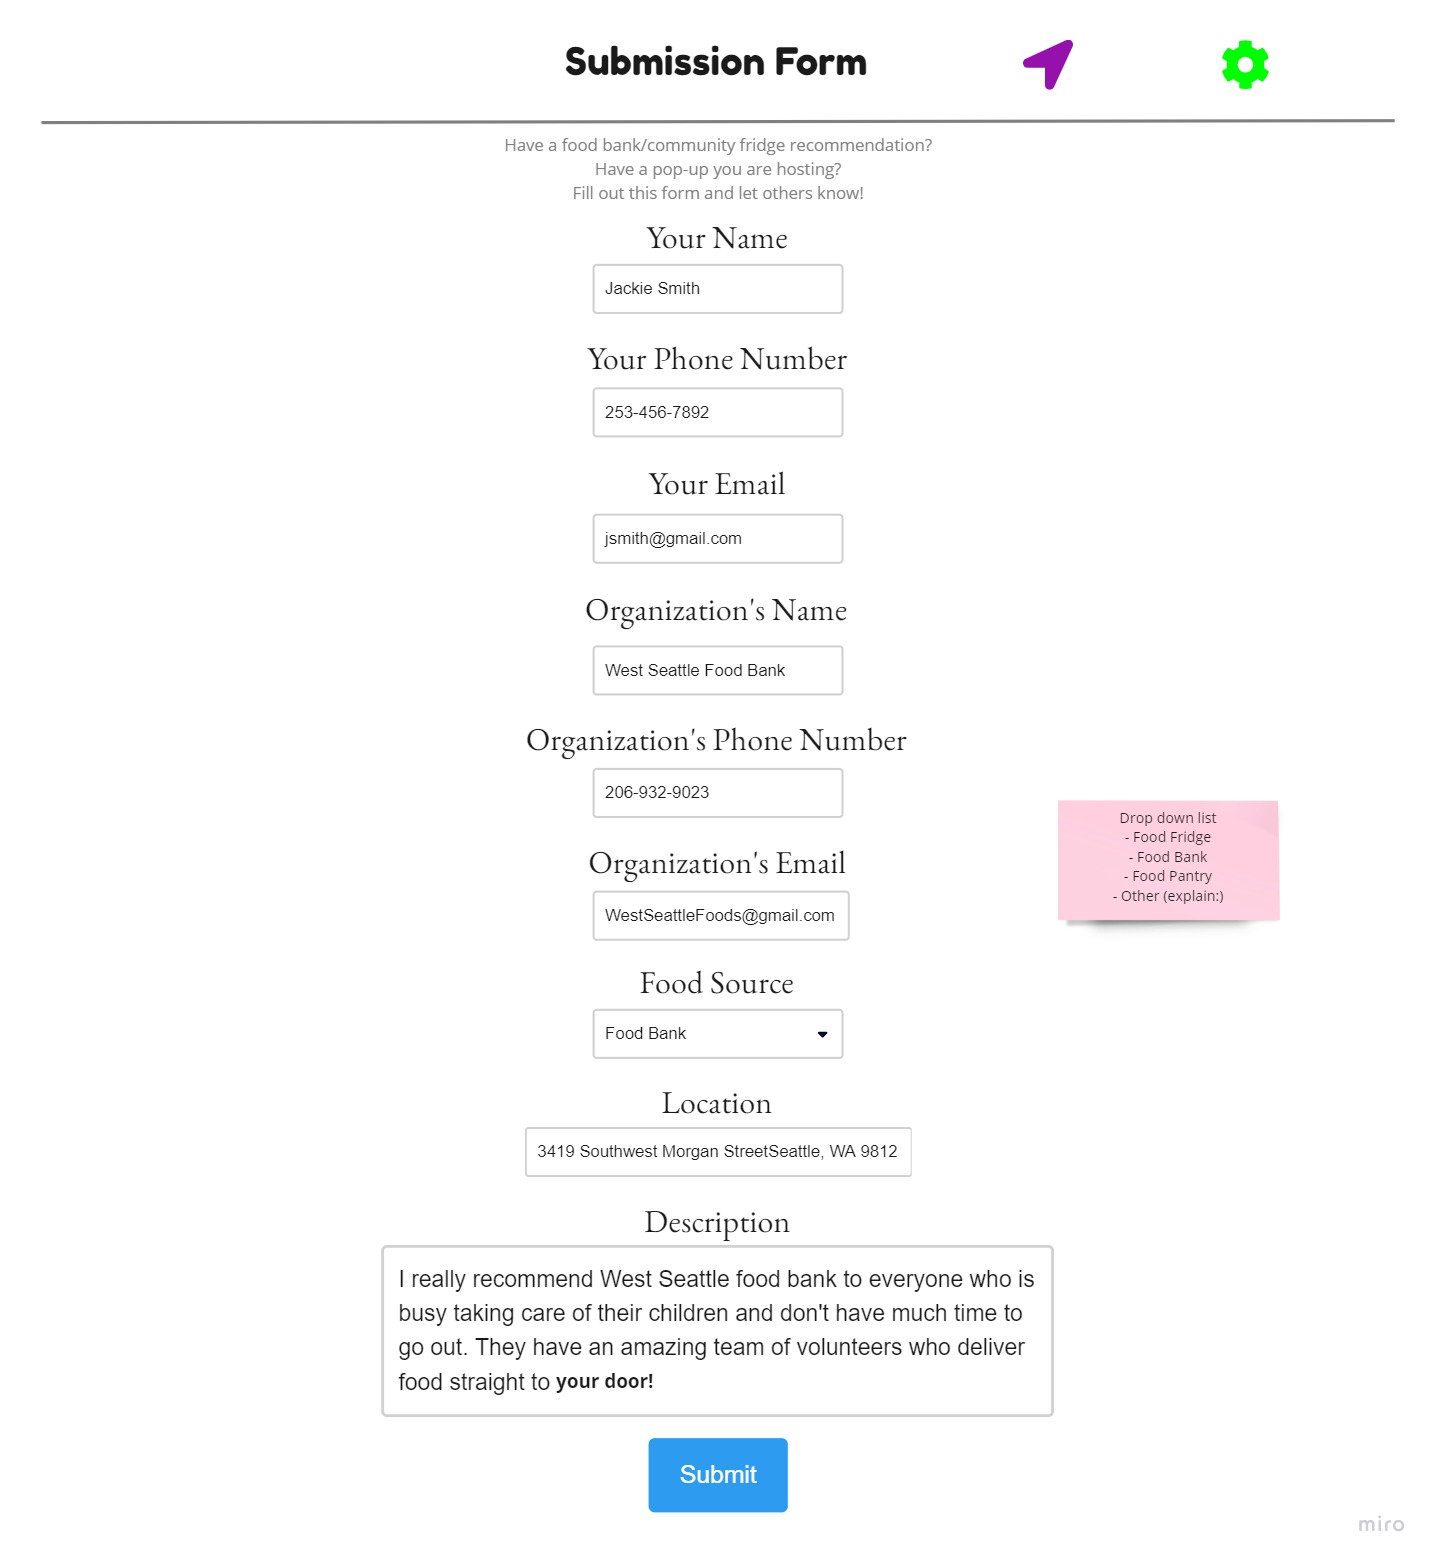
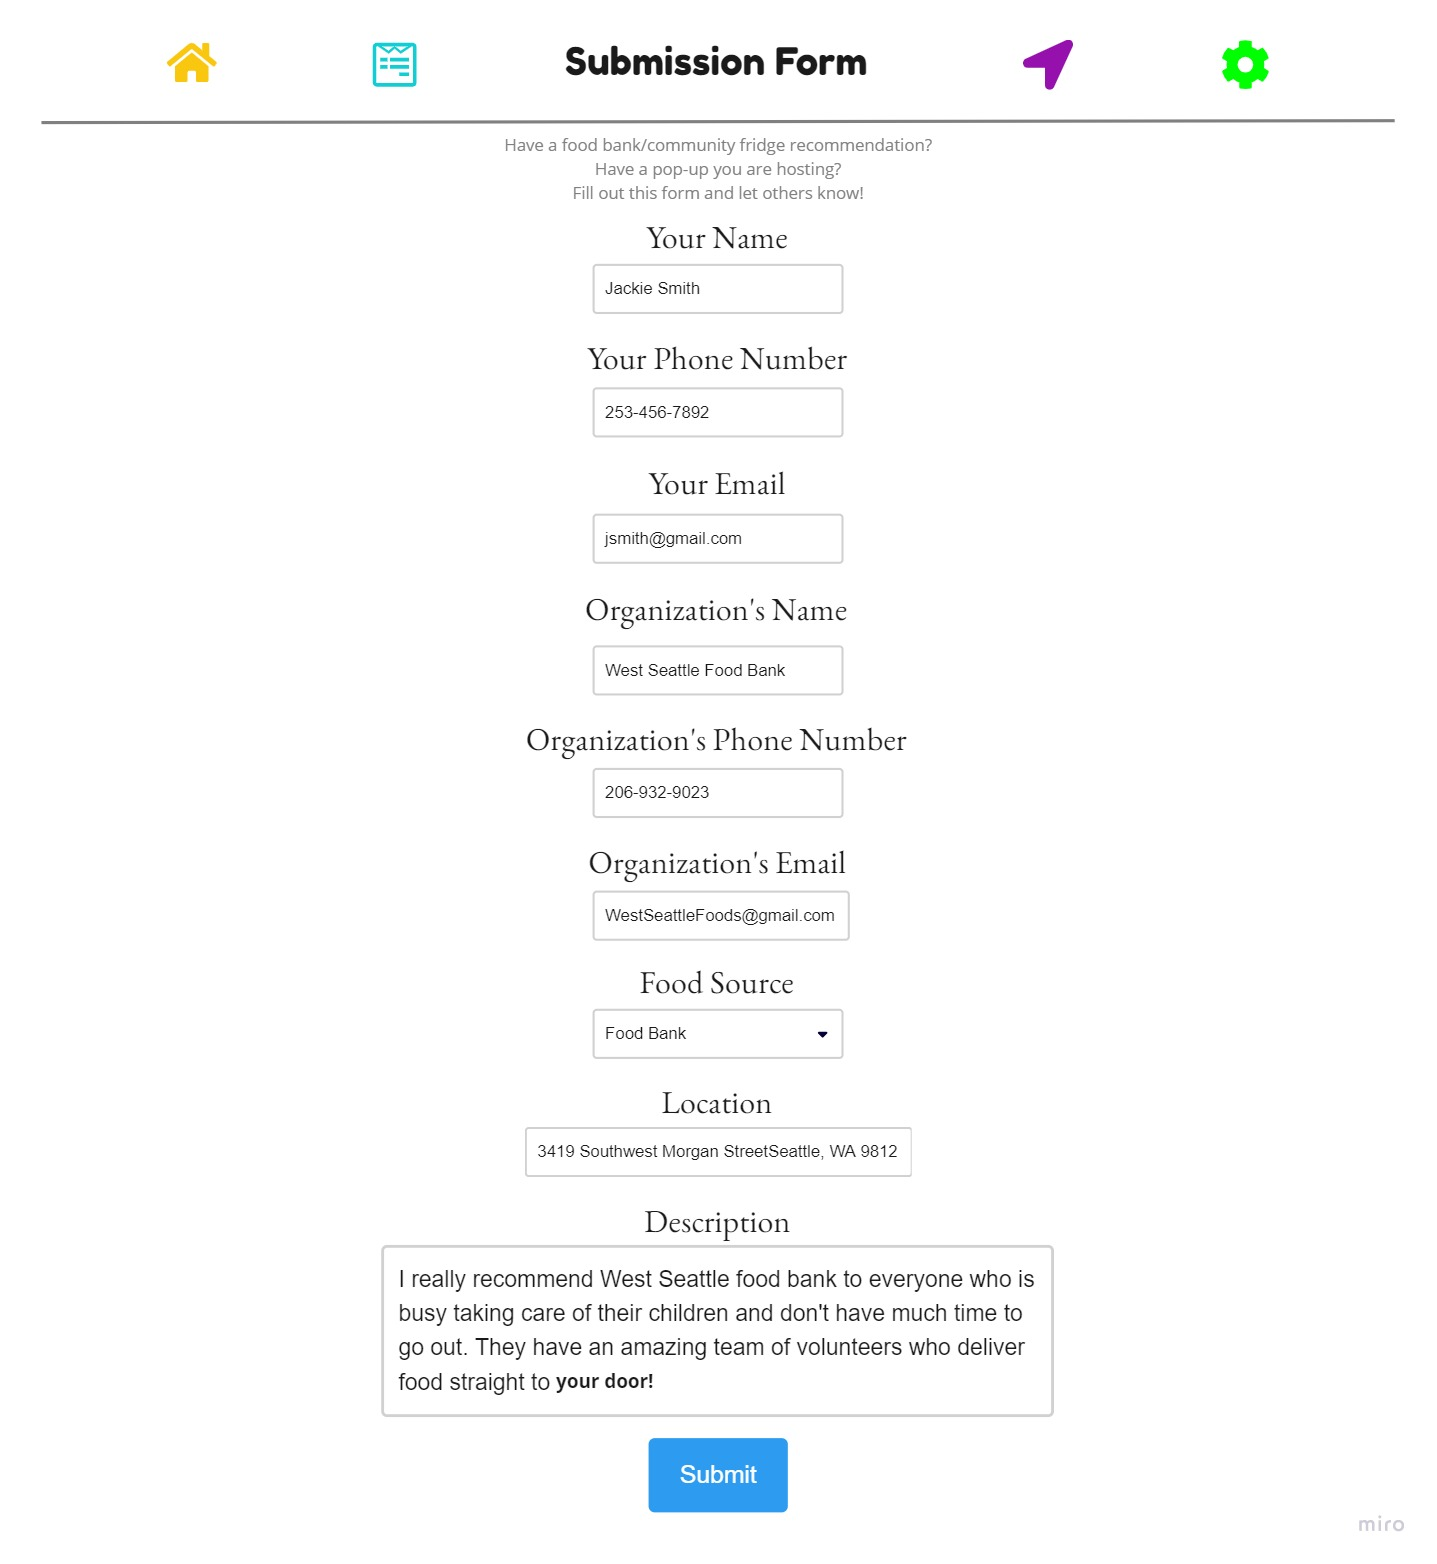
minor changes

Changed region(s): [[0.7349, 0.491, 0.888, 0.6138], [0.245, 0.0307, 0.3062, 0.0614], [0.1225, 0.0307, 0.1531, 0.0614]]

diff --git a/README.md b/README.md
@@ -1,85 +1,15 @@
-# Food For Friends Specifications
-Team Name: Food for Friends
+## Team Name
+Food for Friends
 
-#### Members and Roles
+## Members
 **Project Manager**: Pranav Shekar
 
 **Developers**: SooBin Park, Christian Calloway
 
-**Designer**: Jaehoon Cho
+**Designer**: Jaehoon Choi
 
-## Problem
-### Mission Statement
+## Mission Statement
 Centralizing localized food data to combat food insecurity.
-### Problem Statement
-  According to Healthy People 2030, food insecurity is defined as “the disruption of food intake or eating patterns because of lack of money and other resources,” (Food Insecurity, 2020). The United Nations’ Sustainable Development Goals estimates that globally 650 million people were quoted to be going hungry, with an even larger number of 2 billion people estimated to be facing food insecurity (SDG Indicators). The USDA Economic Research Service also claims that of these numbers, within the United States, 38.3 million people live in food insecure families, and from that, about 6.1 million children were living in a family with food insecurity (Coleman-Jensen et al.). Oftentimes, children who face food insecurity are more likely to perform poorly in school compared to their peers. Without proper nutrition, they are at a greater risk of increased hospitalizations, developmental risk, behavior problems, and anxiety to name a few. Additionally, with the ongoing COVID-19 pandemic, families who were already at risk of food insecurity are facing even greater hardships with limited capacity at food pantries as an example. Our solution aims to target these demographics and reduce the amounts of families and children facing hunger.
 
-  Currently, a major cause of food insecurity is the long-existing systematic social discrimination, such as the practice of Supermarket Redlining. Concerned with low-profit margins, many supermarkets are reluctant in opening stores in inner cities and neighborhoods of lower socioeconomic status, which makes food sparse in certain areas (Mukherjee, 2020). Moreover, the lack of access to public transportation or a personal vehicle further prevents families in these neighborhoods from regularly traveling to supermarkets. Thus, the families often have to compromise and shop at convenience stores rather than grocery stores. However, the unaffordable prices at convenience stores are yet another factor that limits access to foods (Food Insecurity, 2020). With all that said, families rely on information about food banks, pantries, and fridges to get donated food; however, there is no comprehensive and user-friendly information that connects these families in need to every available food source.
-
-  Existing solutions, such as Feeding America–while providing location-centered information–tend to concentrate data exclusively around food banks. Consequently, this can end up missing mutual aid work and pop-up food pantries that can provide relief to families facing food insecurity (“Find Your Local Food Bank.”). On a more local scale, groups like Seattle Food Committee, however, provide more detailed information on food resources, yet they lack map-based and location-based features that would allow for a smoother user experience; oftentimes, smaller companies do not have the resources to do this (Seattle Food Committee). Taken together, larger solutions tend to not be specific enough to the area and culture while smaller solutions struggle to scale their data in a way that is meaningful. 
-
-### References
-Coleman-Jensen, Alisha, et al. “Key Statistics &amp; Graphics.” USDA ERS - Key Statistics &amp; Graphics, U.S Department of Agriculture, 8 Sept. 2021, https://www.ers.usda.gov/topics/food-nutrition-assistance/food-security-in-the-u-s/key-statistics-graphics/#:~:text=In%202020%3A,with%20adults%2C%20were%20food%20insecure. 
-
-“Find Your Local Food Bank.” Feeding America, https://www.feedingamerica.org/find-your-local-foodbank. 
-
-“Food Insecurity.” Food Insecurity | Healthy People 2020, Office Of Disease Prevention and Health Promotion, www.healthypeople.gov/2020/topics-objectives/topic/social-determinants-health/interventions-resources/food-insecurity#:~:text=Access%20to%20healthy%20foods%20is,and%20supermarkets%20or%20grocery%20stores.&text=Residents%20are%20at%20risk%20for,and%20there%20are%20fewer%20supermarkets. 
-
-Hake, Monica, et al. The Impact of the Coronavirus on Food Insecurity, Feeding America, Mar. 2021, https://www.feedingamerica.org/sites/default/files/2021-03/National%20Projections%20Brief_3.9.2021_0.pdf. 
-“Household Food Insecurities: Threats to Children's Well-Being.” American Psychological Association, American Psychological Association, https://www.apa.org/pi/ses/resources/indicator/2012/06/household-food-insecurities. 
-
-Mukherjee, T. (2020, September 28). Redlining’s Legacy: Food Deserts, Insecurity, and
-Health. Morning Sign Out Health and Science Made Simple. Retrieved April 10, 2022, from https://sites.uci.edu/morningsignout/2020/09/28/redlinings-legacy-food-deserts-insecurity-and-health/. 
-
-“SDG Indicators.” United Nations Sustainable Development Goals Report 2021, United Nations, 2021, https://unstats.un.org/sdgs/report/2021/goal-02/. 
-
-Seattle Food Committee, 7 Apr. 2022, https://www.seattlefoodcommittee.org/. 
-
-## Solution Summary
-Food For Friends aims to combine aspects of location-based information with expansive knowledge of food resources (including mutual aid groups, food banks, community fridges, etc.) to combat food insecurity. We allow users to quickly and efficiently find food resources near them, with a focus on eliminating family and child food insecurity.
-
-## Design
-### Home Page
-The home page consists of a 
-Navigation bar
-Body
-Footer
-
-In the navigation bar, our website/team name is adjusted at the center, with four buttons as well: Home page, Food Near You page, Submission Form page, and Settings which I will explain more in detail below. These buttons are on all the other pages as well so that it is more convenient for the users to switch between tabs. 
-In the body of the Home page, users can either go to the Food Near You, Favorites, or Submission Form page. 
-In the footer, information about our organization is presented to the users.
-
-
-
-### Food Near You
-The Food Near You page is where the user would simply search the elementary school nearest to them in the search bar. We chose to do this because many families with young children tend to struggle with food insecurity. Thus, if we show results near their elementary school, it could be convenient for the family. The page will then present them with the nearest food pantries near that school. With each location, the name of the organization will show, along with the distance from the user's current location, and an option to favorite. When favorited, the favorite icon will turn yellow. 
-Our stretch goal is to make food pantries available from any location and not just limited to elementary schools. Another stretch goal we have is to integrate a map feature that allows users to visually see where food resources are located geographically. 
-
-
-
-If the inputted location is not an elementary school in Seattle, an error message will pop up letting the user know. 
-
-### Submission Form
-Because we recognize that food resources can change and develop, we have integrated a submission form to make our solution more community-based. The Submission Form page allows users to recommend a food pantry, notify others that they are hosting a pop-up, etc. The sections consist of: 
-Users name
-Users phone number
-Users email
-Organizations name
-Organizations phone number 
-Organizations email
-Food source that has food bank, food pantry, and community fridge as options
-Location of the food pantry
-Description (recommendation, hosting pop-up, fast service, delivery service, etc.)
-
-
-If a part of the submission form isn’t filled out, an error message is displayed. Only once that part is filled will the user be able to submit their form. This is so that other users can reach out to the person or organization if they have any questions or concerns. 
-
-
-### Favorites
-The favorites page will list the users favorite food pantries. There is a dropdown menu that gives the user options to sort it by either distance or most recently favorited. 
-
-### Settings
-On our settings page, users input their email, phone number, distance preference, food source preference, and language preference. Creating an account and distance preference are optional, but food source preference and language preference are required. 
-Distance preference can range from 0 to 15 miles. 
-Food source preference has food banks, food pantries, and community fridges as the options. 
-Language preference has English as the default language, and ___________.
+## Problem Statement
+Food insecurity is a global issue, currently further exasperated by the COVID-19 pandemic. The USDA defines food insecurity as households not having enough access to food to meet their household's needs. Even within the U.S., considered one of the wealthiest nations in the world, a rising number of Americans experience food insecurities further harmed by loss of job opportunities, lack of access to proper healthcare, and a lack of centralized information in the midst of a global pandemic. According to an NPR article Food Insecurity in the U.S. by the Numbers", a quarter of households in the U.S. are experiencing food insecurity (Christanna Silva, 2020). The most common solution for food insecurity has been through food pantries and food banks. However, as outlined in the AP News article, "US food banks struggle to feed hungry amid surging prices", it has been difficult for existing food banks and pantries to keep up with the rising demand due to staffing and food shortages caused by COVID-19 surges (Janie Har, 2021). 

diff --git a/Specifications.md b/Specifications.md
@@ -50,7 +50,7 @@ The home page consists of a
 <li> Footer </li>
 </ul>
 
--In the navigation bar, our website/team name is adjusted at the center, with four buttons as well: Home page, Food Near You page, Submission Form page, Favorites page, and Settings which I will explain more in detail below. These buttons are on all the other pages as well so that it is more convenient for the users to switch between tabs. <br>
+-In the navigation bar, our website/team name is adjusted at the center, with four buttons as well: Home page, Food Near You page Submission Form page, Favorites page, and Settings which I will explain more in detail below. These buttons are on all the other pages as well so that it is more convenient for the users to switch between tabs. <br>
 -In the body of the Home page, users can either go to the Food Near You, Favorites, or Submission Form page. <br>
 -In the footer, information about our organization is presented to the users.
 
@@ -145,7 +145,7 @@ On our Settings page, users input their email, phone number, distance preference
 <br>
 <br>
 
-<p><em> Figure 3: Settings</em></p>
+<p><em> Figure 3: Settings Page</em></p>
 <img src="imgs/settings.jpg" alt="image of prototyped web app's Settings Page">
 
 <br>
